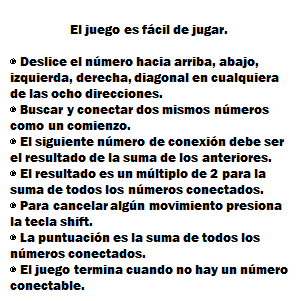
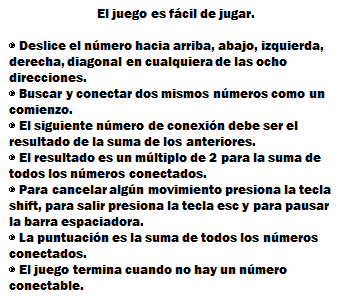
arreglo instrucciones

diff --git a/src/ui/Instrucciones.java b/src/ui/Instrucciones.java
@@ -15,7 +15,7 @@ public class Instrucciones extends JPanel {
 		setBackground(Color.WHITE);
 		
 		instrucciones=new JLabel();
-		instrucciones.setBounds(115,28, 300 , 300);
+		instrucciones.setBounds(105,28, 354 , 300);
 		instrucciones.setIcon(new ImageIcon("imagenes/instrucciones2.png") );
 		add(instrucciones);
 		add(inicio.atras);
